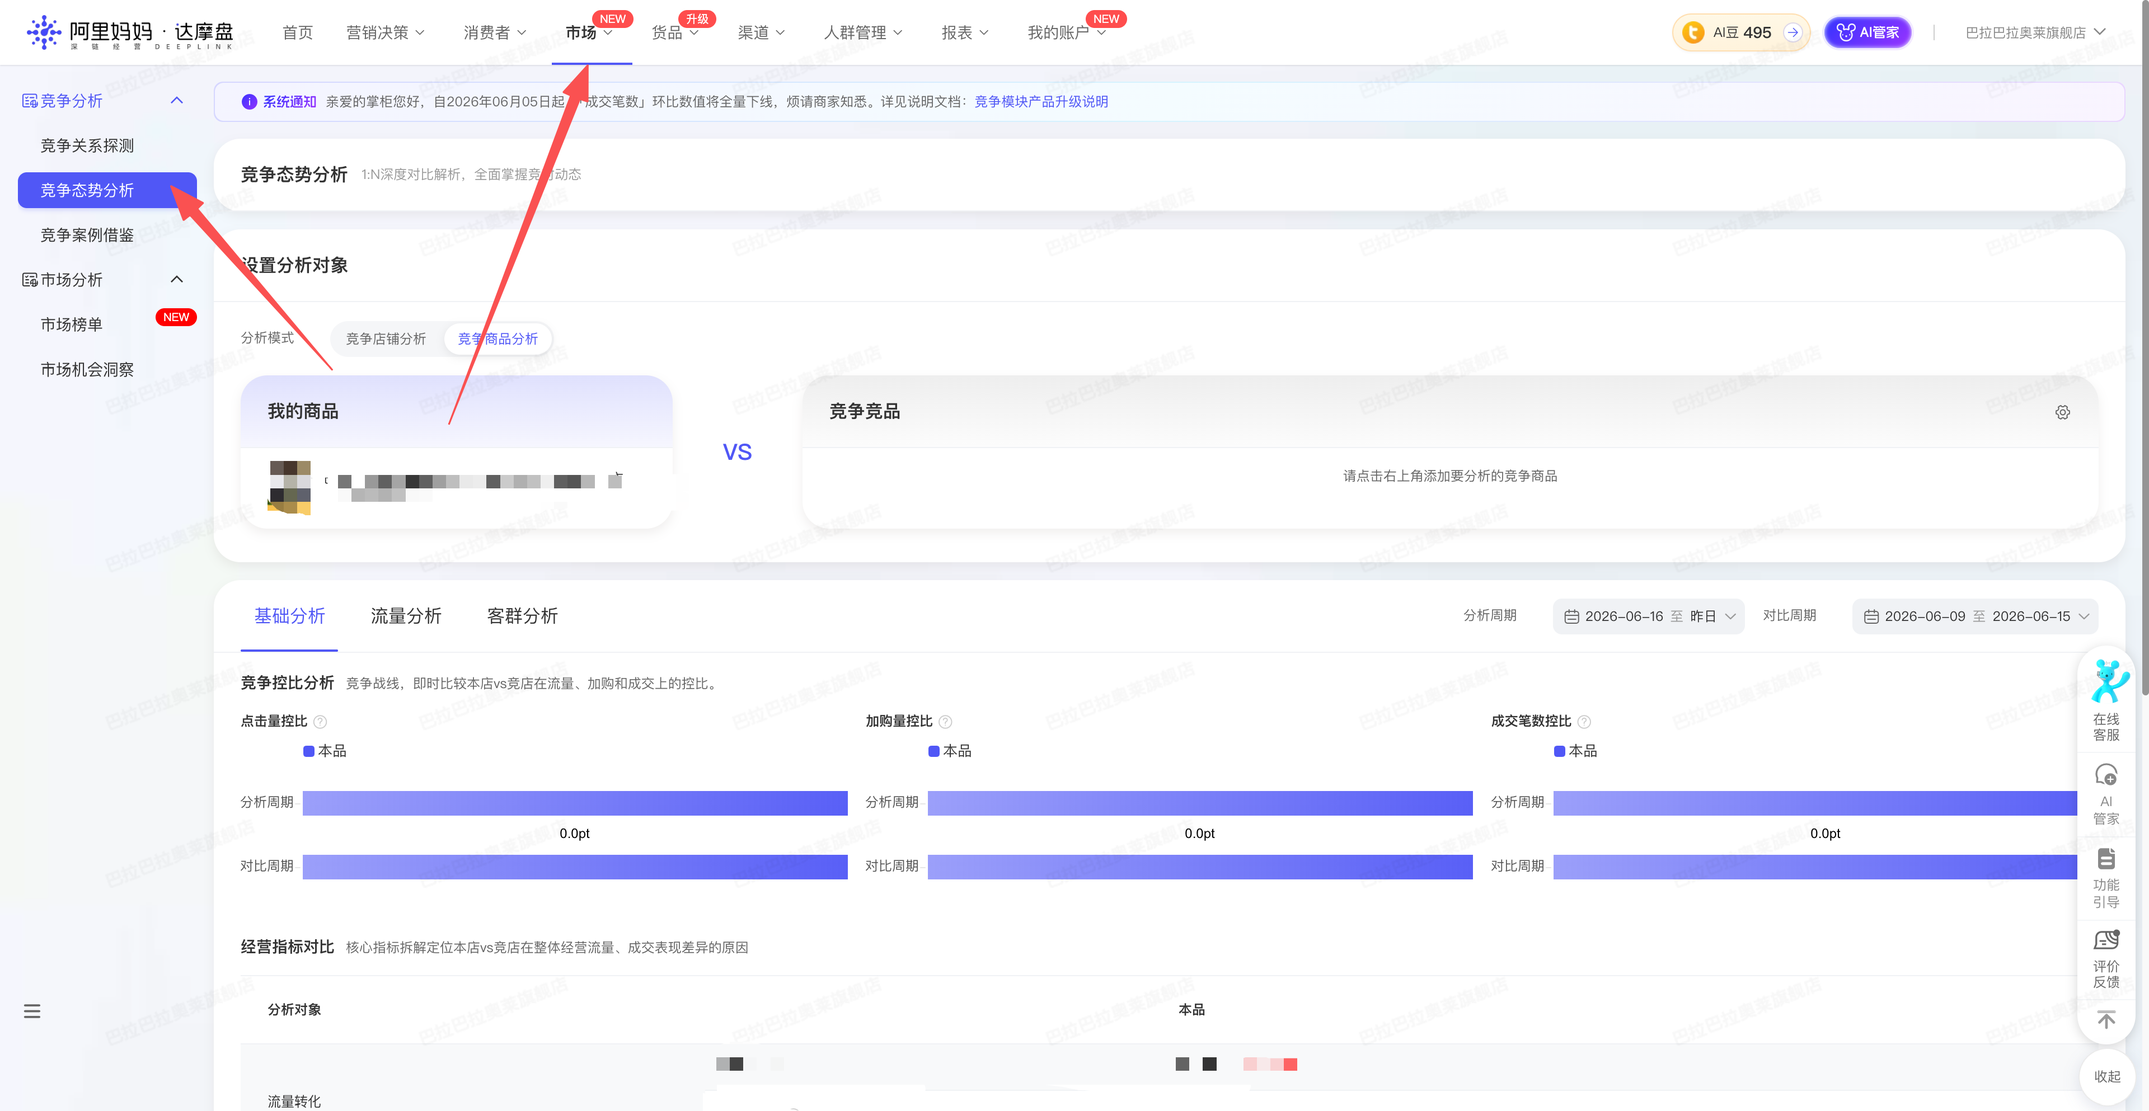
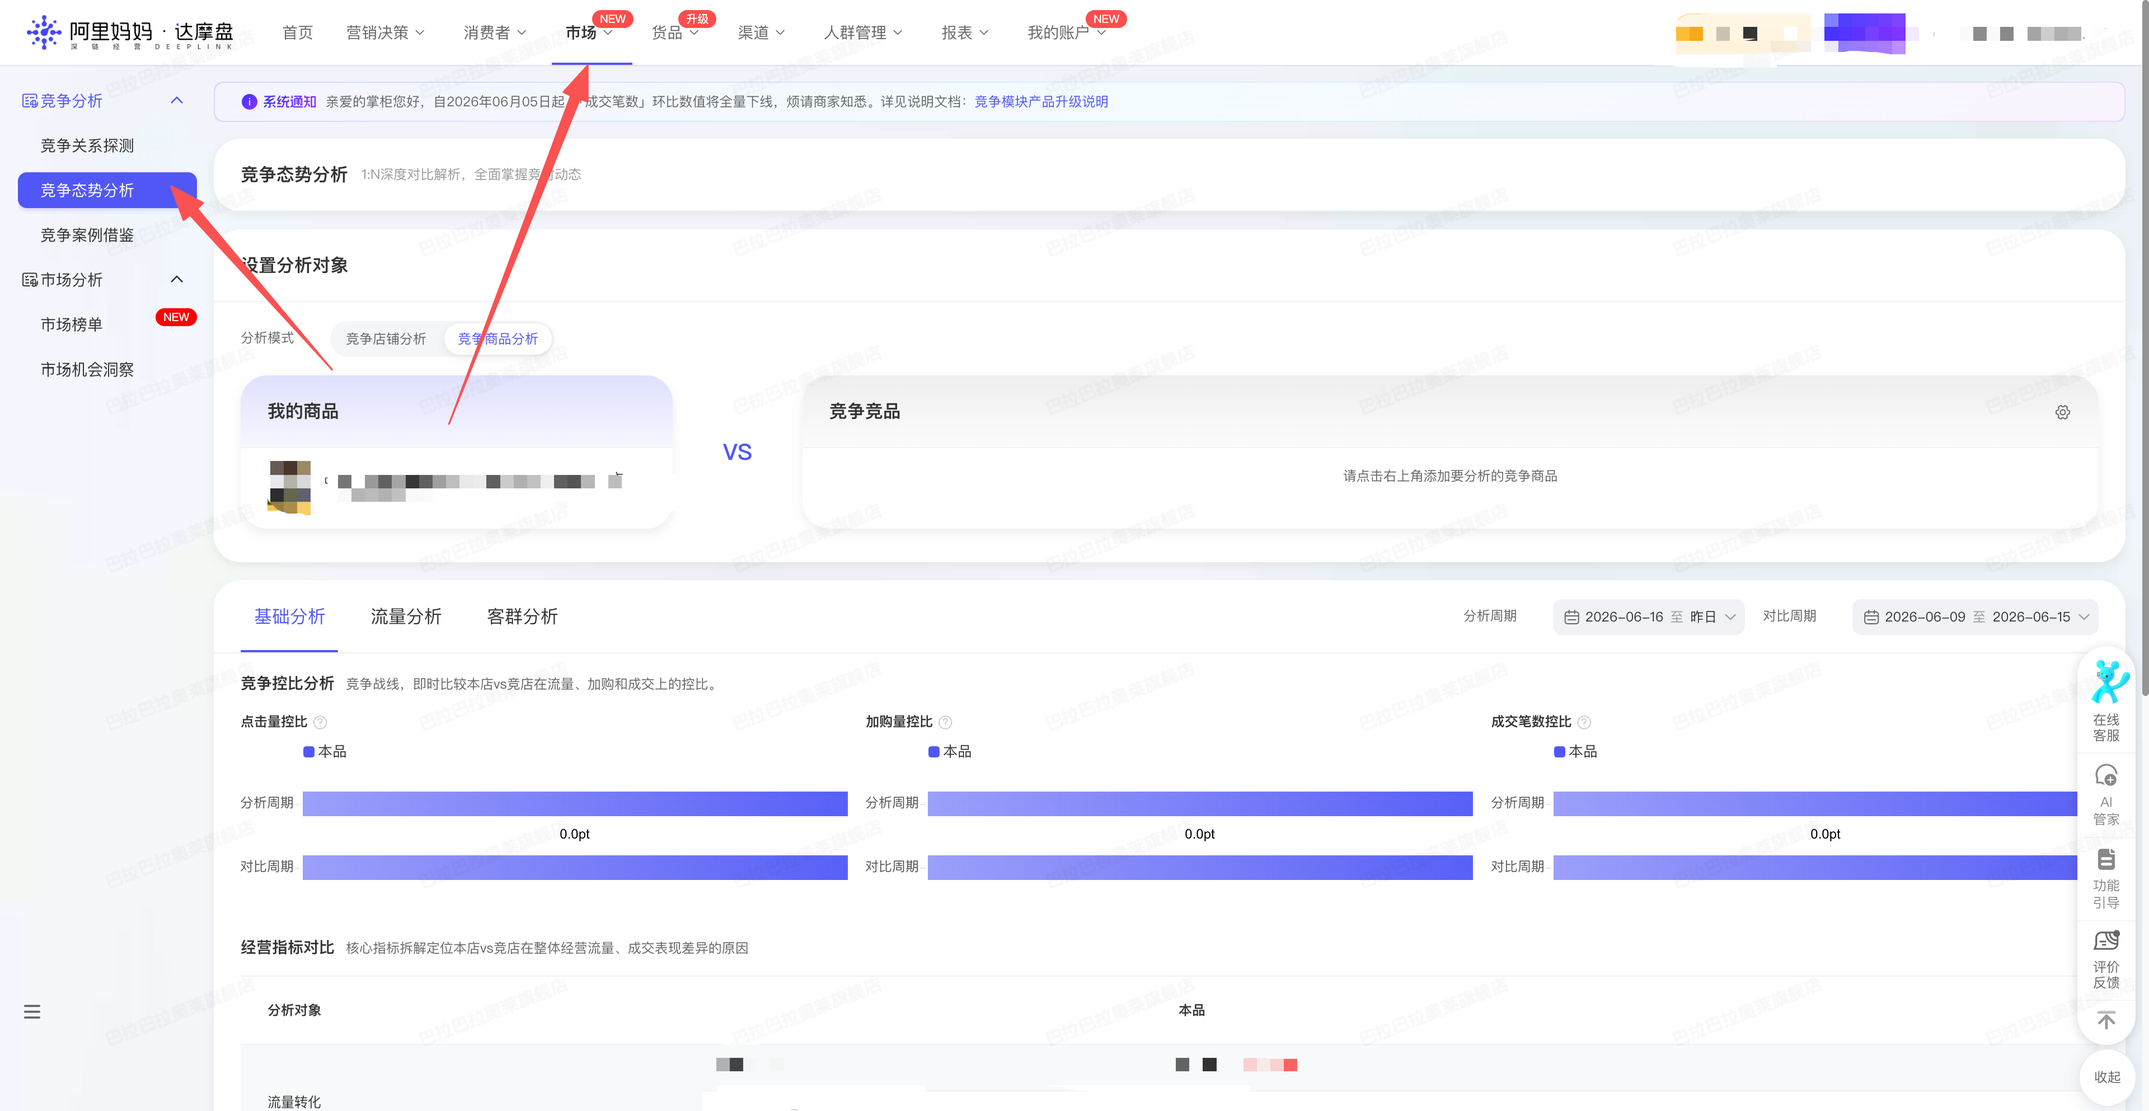
客群分析需求

diff --git a/content/docs/connectors/rpa-conn-alimm-all/rpa-conn-alimm-dmp-compete-situation-item.md b/content/docs/connectors/rpa-conn-alimm-all/rpa-conn-alimm-dmp-compete-situation-item.md
@@ -15,7 +15,7 @@ badge:
 | **操作类型**      | 浏览器自动化操作 + 网络请求监听                                                          |
 | **目标网页**      | `https://dmp.taobao.com/index_new.html#!/compete/compete-situation`        |
 | **适用场景**      | 采集达摩盘竞争态势分析页中本品与竞品的基础分析（含竞争控比）、流量分析（付免/无界投资结构占比、广告域/全域归因渠道明细）及客群画像；支持快捷周期与自定义四段日期；本品或竞品未搜到时返回空数据 |
-| **预估耗时**      | `120s`                                                                      |
+| **预估耗时**      | `300s`                                                                      |
 
 
 ### 目标页面
@@ -40,8 +40,8 @@ badge:
 | `custom_peer_end_date`   | 对比周期结束日期 | `String`                | 条件必填 | —         | `date_type=custom` 时必填；支持格式：YYYYMMDD、YYYY-MM-DD；须在「最近 90 天、最晚至昨日」窗口内；不可早于 `custom_peer_start_date`；分析周期与对比周期允许重叠 |
 | `customer_time_window`   | 分析对象客群时间周期 | `String`            | 否    | `recent7` | 可选值：`recent7`（最近7天）、`recent15`（最近15天）、`recent30`（最近30天）、`recent90`（最近90天） |
 | `compare_customer_time_window` | 对比对象客群时间周期 | `String`      | 否    | 同 `customer_time_window` | 可选值同上 |
-| `customer_behavior_types` | 分析对象客群行为 | `String \| List[String]` | 否 | 五行为全选 | 英文 code：`browse`（浏览）、`favorite`（收藏）、`add_cart`（加购）、`purchase`（购买）、`search`（搜索）；英文逗号或 JSON 数组 |
-| `compare_customer_behavior_types` | 对比对象客群行为 | `String \| List[String]` | 否 | 五行为全选 | 可选值同上 |
+| `customer_behavior_types` | 分析对象客群行为 | `String \| List[String]` | 否 | 全选 | 英文 code：`browse`（浏览）、`favorite`（收藏）、`add_cart`（加购）、`purchase`（购买）、`search`（搜索）；英文逗号或 JSON 数组 |
+| `compare_customer_behavior_types` | 对比对象客群行为 | `String \| List[String]` | 否 | 全选 | 可选值同上 |
 
 
 ### 入参样例
@@ -217,9 +217,16 @@ badge:
 
 ### 数据字段
 
-输出为 `data[0]` 单条聚合对象：**任务元数据 + `rawData` 八块映射数据**（含客群画像）。连接器不做二次汇总，下游按 `competitorList` 或 `itemId` 自行取数。
+输出为 `data[0]` 单条聚合对象：**任务元数据 + `competeItems` + 八块映射数据（顶层平铺）**（含客群画像）。
 
 :::field-tree
+@define 竞争商品展示项
+| `role` | 商品角色 | `String` | 否 | 页面顺序 + 入参角色 | `selfItem` / `rivalItem1`~`rivalItem3` |
+| `itemId` | 商品 ID | `String` | 否 | 详情链接 URL | `897425691792` |
+| `name` | 商品名称 | `String` | 否 | 链接 title 或文案 | `巴拉巴拉童装儿童短袖t恤...` |
+| `url` | 商品详情页 URL | `String` | 否 | 页面链接 href | `https://detail.tmall.com/item.htm?id=897425691792` |
+| `imageUrl` | 商品主图 URL | `String` | 是 | 页面 img src（竞品可能为 null） | 见数据样例 |
+
 @define 竞品指标项
 | `base` | 分析周期值 | `Number / String` | 是 | competitorList[].base | `372` |
 | `basePeriod` | 对比周期值 | `Number / String` | 是 | competitorList[].basePeriod | `325` |
@@ -271,7 +278,23 @@ badge:
 | `tagName` | 标签名称 | `String` | 是 | chartDataFull[].tagName | `用户性别` |
 | `optionNum` | 覆盖人数 | `String` | 是 | chartDataFull[].optionNum | `2023` |
 
-@define 原始映射数据
+
+| 字段                | 中文释义         | 数据类型     | 可为空 | 取数路径                                     | 示例              |
+| ----------------- | ------------ | -------- | --- | ---------------------------------------- | --------------- |
+| `selfItemId`      | 本店商品 ID      | `String` | 否   | 任务入参 self_item_id                        | `897425691792`  |
+| `rivalItemId1`    | 竞争商品 ID（第一个） | `String` | 否   | rival_item_ids[0]                        | `1057000824998` |
+| `rivalItemId2`    | 竞争商品 ID（第二个） | `String` | 是   | rival_item_ids[1]（不足时为 null）             | `1044235732163` |
+| `rivalItemId3`    | 竞争商品 ID（第三个） | `String` | 是   | rival_item_ids[2]（不足时为 null）             | `1019326026903` |
+| `dateType`        | 分析周期类型       | `String` | 否   | 任务入参 date_type                           | `custom`        |
+| `beginDate`       | 分析开始日期       | `String` | 否   | 页面「分析周期」选择器实际展示的起始日（YYYY-MM-DD） | `2026-06-21`    |
+| `endDate`         | 分析结束日期       | `String` | 否   | 页面「分析周期」选择器实际展示的结束日（结束日为昨日时页面可能显示「昨日」，已归一化为 YYYY-MM-DD） | `2026-06-28`    |
+| `peerBeginDate`   | 对比周期开始日期     | `String` | 否   | 页面「对比周期」选择器实际展示的起始日（YYYY-MM-DD） | `2026-06-16`    |
+| `peerEndDate`     | 对比周期结束日期     | `String` | 否   | 页面「对比周期」选择器实际展示的结束日（YYYY-MM-DD） | `2026-06-20`    |
+| `customerTimeWindow` | 分析对象客群时间周期 | `String` | 否 | 任务入参 customer_time_window | `recent7` |
+| `compareCustomerTimeWindow` | 对比对象客群时间周期 | `String` | 否 | 任务入参 compare_customer_time_window | `recent15` |
+| `customerBehaviorTypes` | 分析对象客群行为 | `List[String]` | 否 | 任务入参 customer_behavior_types（英文 code 列表） | `["search"]` |
+| `compareCustomerBehaviorTypes` | 对比对象客群行为 | `List[String]` | 否 | 任务入参 compare_customer_behavior_types（英文 code 列表） | `["search"]` |
+| `competeItems` @竞争商品展示项 | 分析对象商品展示信息 | `List[Dict]` | 否 | 选品完成后页面「我的商品」展示区 | 见数据样例 |
 | `baseData` @接口指标字典 | 基础分析·推广侧指标 | `Dict` | 否 | base/indicator data | 见数据样例 |
 | `shopData` @接口指标字典 | 基础分析·店铺侧指标 | `Dict` | 否 | base/shop/indicator data | 见数据样例 |
 | `controlRatioData` @接口指标字典 | 基础分析·竞争控比（仅 click/cartCnt/alipayCnt 有值，其余字段为 null） | `Dict` | 否 | base/control/ratio data | 见数据样例 |
@@ -280,30 +303,16 @@ badge:
 | `flowAdData` @渠道明细树节点 | 流量分析·广告域归因渠道明细 | `List[Dict]` | 否 | flow/indicator（attributionScale=2）data.list | 见数据样例 |
 | `flowFullData` @渠道明细树节点 | 流量分析·全域归因渠道明细 | `List[Dict]` | 否 | flow/indicator（attributionScale=1）data.list | 见数据样例 |
 | `customerProfile` @客群画像行 | 客群分析画像行列表 | `List[Dict]` | 否 | tag/chart chartDataFull + 采集上下文 | 见数据样例 |
-
-
-| 字段                | 中文释义         | 数据类型     | 可为空 | 取数路径                                     | 示例              |
-| ----------------- | ------------ | -------- | --- | ---------------------------------------- | --------------- |
-| `selfItemId`      | 本店商品 ID      | `String` | 否   | 任务入参 self_item_id                        | `897425691792`  |
-| `rivalItemId1`    | 竞争商品 ID（第一个） | `String` | 否   | rival_item_ids[0]                        | `1057000824998` |
-| `rivalItemId2`    | 竞争商品 ID（第二个） | `String` | 是   | rival_item_ids[1]（不足时为 null）             | `1044235732163` |
-| `rivalItemId3`    | 竞争商品 ID（第三个） | `String` | 是   | rival_item_ids[2]（不足时为 null）             | `1019326026903` |
-| `dateType`        | 分析周期类型       | `String` | 否   | 任务入参 date_type                           | `recent7`       |
-| `beginDate`       | 分析开始日期       | `String` | 否   | 快捷周期自动计算；custom 取 custom_start_date      | `2026-06-22`    |
-| `endDate`         | 分析结束日期       | `String` | 否   | 快捷周期自动计算；custom 取 custom_end_date        | `2026-06-28`    |
-| `peerBeginDate`   | 对比周期开始日期     | `String` | 否   | 快捷周期环比推算；custom 取 custom_peer_start_date | `2026-06-15`    |
-| `peerEndDate`     | 对比周期结束日期     | `String` | 否   | 快捷周期环比推算；custom 取 custom_peer_end_date   | `2026-06-21`    |
-| `customerTimeWindow` | 分析对象客群时间周期 | `String` | 否 | 任务入参 customer_time_window | `recent7` |
-| `compareCustomerTimeWindow` | 对比对象客群时间周期 | `String` | 否 | 任务入参 compare_customer_time_window | `recent7` |
-| `customerBehaviorTypes` | 分析对象客群行为 | `List[String]` | 否 | 任务入参 customer_behavior_types（英文 code 列表） | `["browse","favorite","add_cart","purchase","search"]` |
-| `compareCustomerBehaviorTypes` | 对比对象客群行为 | `List[String]` | 否 | 任务入参 compare_customer_behavior_types（英文 code 列表） | `["browse","favorite","add_cart","purchase","search"]` |
-| `rawData` @原始映射数据 | 映射后原始接口数据    | `Dict`   | 否   | 八块 field_map 映射结果                       | 见数据样例           |
 | `bizDate`         | 业务日期         | `String` | 否   | 附加                                       |                 |
 | `accountId`       | 授权 ID        | `String` | 否   | 附加                                       |                 |
 :::
 
 
 ### 取数说明
+
+`beginDate` / `endDate` / `peerBeginDate` / `peerEndDate` 为日期面板操作完成后页面选择器实际展示值，非入参推算值。
+
+`competeItems[]` 按页面「我的商品」展示区顺序排列：首项为本品（`role=selfItem`），后续为竞品（`rivalItem1`~`rivalItem3`）；含商品名称、详情页 URL 及主图 URL。
 
 所有「本品 / 竞品 × 指标 × 三口径（当前 / 对比 / 环比）」均来自 `competitorList`：在对应 `{metricKey}.competitorList` 中按 `competitorId` 匹配 `selfItemId` 或 `rivalItemIdN`，读取 `base` / `basePeriod` / `growthRate`。
 
@@ -314,8 +323,9 @@ badge:
 客群画像按 `customerProfile[]` 行读取：`targetRole` 区分分析对象/对比对象；6 个 `profileType` 固定为 `gender`（用户性别）、`age`（用户年龄）、`purchasing_power`（消费能力等级）、`city_level`（城市等级）、`monthly_purchase_freq`（月均消费频次）、`fmcg_strategy_crowd`（大快消策略人群）。
 
 
-| 页面区块        | 页面指标           | rawData 路径                   | 接口 metricKey / 字段                          | 说明                                     |
+| 页面区块        | 页面指标           | 数据路径                   | 接口 metricKey / 字段                          | 说明                                     |
 | ----------- | -------------- | ---------------------------- | ------------------------------------- | -------------------------------------- |
+| 设置分析对象 | 本品/竞品名称、链接、主图 | `competeItems[]` | `role` / `itemId` / `name` / `url` / `imageUrl` | 选品完成后从页面展示区抓取 |
 | 基础分析 · 竞争控比 | 点击量控比 | `controlRatioData.click` | `click` | 0~1 份额，非绝对点击量；仅此项及 cartCnt、alipayCnt 有值 |
 | 基础分析 · 竞争控比 | 加购量控比 | `controlRatioData.cartCnt` | `cartCnt` | 同上 |
 | 基础分析 · 竞争控比 | 成交笔数控比 | `controlRatioData.alipayCnt` | `alipayCnt` | 同上 |
@@ -355,9 +365,6 @@ badge:
 
 ### 数据样例
 
-> 数据来源：账号 120 / `date_type=recent7` / Bit MCP 抓包（2026-06-30）
-
-> 以下为代表性摘录。
 
 ```json
 [
@@ -368,127 +375,111 @@ badge:
     "rivalItemId1": "1057000824998",
     "rivalItemId2": "1044235732163",
     "rivalItemId3": "1019326026903",
-    "dateType": "recent7",
-    "beginDate": "2026-06-22",
+    "dateType": "custom",
+    "beginDate": "2026-06-21",
     "endDate": "2026-06-28",
     "peerBeginDate": "2026-06-16",
-    "peerEndDate": "2026-06-21",
+    "peerEndDate": "2026-06-20",
     "customerTimeWindow": "recent7",
-    "compareCustomerTimeWindow": "recent7",
-    "customerBehaviorTypes": ["browse", "favorite", "add_cart", "purchase", "search"],
-    "compareCustomerBehaviorTypes": ["browse", "favorite", "add_cart", "purchase", "search"],
-    "rawData": {
-      "controlRatioData": {
+    "compareCustomerTimeWindow": "recent15",
+    "customerBehaviorTypes": ["search"],
+    "compareCustomerBehaviorTypes": ["search"],
+    "competeItems": [
+      {
+        "role": "selfItem",
+        "itemId": "897425691792",
+        "name": "巴拉巴拉童装儿童短袖t恤男童打底衫女童夏款上衣速干纯棉宽松型",
+        "url": "https://detail.tmall.com/item.htm?id=897425691792",
+        "imageUrl": "https://img.alicdn.com/imgextra/i2/4132408402/O1CN01lzGoIS2BwAs0ewyeK_!!4611686018427382866-0-item_pic.jpg"
+      },
+      {
+        "role": "rivalItem1",
+        "itemId": "1057000824998",
+        "name": "女童精致短袖t恤2026夏天新款洋气短款上衣小女孩独特漂亮夏季薄",
+        "url": "https://detail.tmall.com/item.htm?id=1057000824998",
+        "imageUrl": "https://img.alicdn.com/imgextra/i4/2213282449358/O1CN01QWNIMC2J01WUHzVp8_!!4611686018427381710-0-item_pic.jpg"
+      }
+    ],
+    "controlRatioData": {
+      "click": {
+        "competitorList": [
+          {
+            "base": 0.9845457383702778,
+            "basePeriod": 0.9968047669422915,
+            "growthRate": -0.012259028572013664,
+            "competitorId": "897425691792"
+          }
+        ]
+      }
+    },
+    "flowPaidFreeData": [
+      {
+        "itemId": "897425691792",
+        "list": [
+          { "channelName": "付费", "clickRate": 0.0 },
+          { "channelName": "免费搜索", "clickRate": 0.0031021493463328164 },
+          { "channelName": "免费推荐", "clickRate": 0.0028805672501661865 },
+          { "channelName": "免费其他", "clickRate": 0.994017283403501 }
+        ]
+      }
+    ],
+    "flowInvestorData": [
+      {
+        "itemId": "897425691792",
+        "list": []
+      }
+    ],
+    "shopData": {
+      "click": {
+        "competitorList": [
+          {
+            "base": 6307,
+            "basePeriod": 46709,
+            "growthRate": -0.86,
+            "competitorId": "897425691792"
+          }
+        ]
+      }
+    },
+    "flowFullData": [
+      {
+        "channelId": "private",
+        "channelName": "淘宝私域",
+        "channelType": "organic",
         "click": {
           "competitorList": [
             {
-              "base": 0.9845457383702778,
-              "basePeriod": 0.9968047669422915,
-              "growthRate": -0.012259028572013664,
+              "base": 1663,
+              "basePeriod": 9658,
+              "growthRate": -0.83,
               "competitorId": "897425691792"
             }
           ]
         },
-        "cartCnt": {
-          "competitorList": [
-            {
-              "base": 0.9973890339425587,
-              "basePeriod": 0.9992726097147013,
-              "growthRate": -0.0018835757721425983,
-              "competitorId": "897425691792"
-            }
-          ]
-        },
-        "alipayCnt": {
-          "competitorList": [
-            {
-              "base": 0.9867256637168141,
-              "basePeriod": 0.9988432620011567,
-              "growthRate": -0.012117598284342557,
-              "competitorId": "897425691792"
-            }
-          ]
-        }
-      },
-      "flowPaidFreeData": [
-        {
-          "itemId": "897425691792",
-          "list": [
-            { "channelName": "付费", "clickRate": 0.0 },
-            { "channelName": "免费搜索", "clickRate": 0.0031021493463328164 },
-            { "channelName": "免费推荐", "clickRate": 0.0028805672501661865 },
-            { "channelName": "免费其他", "clickRate": 0.994017283403501 }
-          ]
-        }
-      ],
-      "flowInvestorData": [
-        {
-          "itemId": "897425691792",
-          "list": []
-        }
-      ],
-      "shopData": {
-        "click": {
-          "competitorList": [
-            {
-              "base": 6307,
-              "basePeriod": 46709,
-              "growthRate": -0.86,
-              "competitorId": "897425691792"
-            }
-          ]
-        }
-      },
-      "flowFullData": [
-        {
-          "channelId": "private",
-          "channelName": "淘宝私域",
-          "channelType": "organic",
-          "click": {
-            "competitorList": [
-              {
-                "base": 1663,
-                "basePeriod": 9658,
-                "growthRate": -0.83,
-                "competitorId": "897425691792"
-              }
-            ]
-          },
-          "cartRate1d": {
-            "competitorList": [
-              {
-                "base": 0.00180397,
-                "basePeriod": 0.00125813,
-                "growthRate": 0.43,
-                "competitorId": "897425691792"
-              }
-            ]
-          },
-          "subChannels": []
-        }
-      ],
-      "customerProfile": [
-        {
-          "targetRole": "selfItem",
-          "itemId": "897425691792",
-          "itemIds": null,
-          "behaviorTypes": ["browse", "favorite", "add_cart", "purchase", "search"],
-          "behaviorValues": "1,2,3,4,5",
-          "timeWindow": "recent7",
-          "timeWindowDays": 7,
-          "profileType": "gender",
-          "profileTagId": 114554,
-          "profileLabel": "用户性别",
-          "tagId": "114554",
-          "rate": "0.903125",
-          "ratio": "0.903125",
-          "optionValue": "0",
-          "optionName": "女性用户",
-          "tagName": "用户性别",
-          "optionNum": "2023"
-        }
-      ]
-    }
+        "subChannels": []
+      }
+    ],
+    "customerProfile": [
+      {
+        "targetRole": "selfItem",
+        "itemId": "897425691792",
+        "itemIds": null,
+        "behaviorTypes": ["search"],
+        "behaviorValues": "5",
+        "timeWindow": "recent7",
+        "timeWindowDays": 7,
+        "profileType": "gender",
+        "profileTagId": 114554,
+        "profileLabel": "用户性别",
+        "tagId": "114554",
+        "rate": "0.903125",
+        "ratio": "0.903125",
+        "optionValue": "0",
+        "optionName": "女性用户",
+        "tagName": "用户性别",
+        "optionNum": "2023"
+      }
+    ]
   }
 ]
 ```
